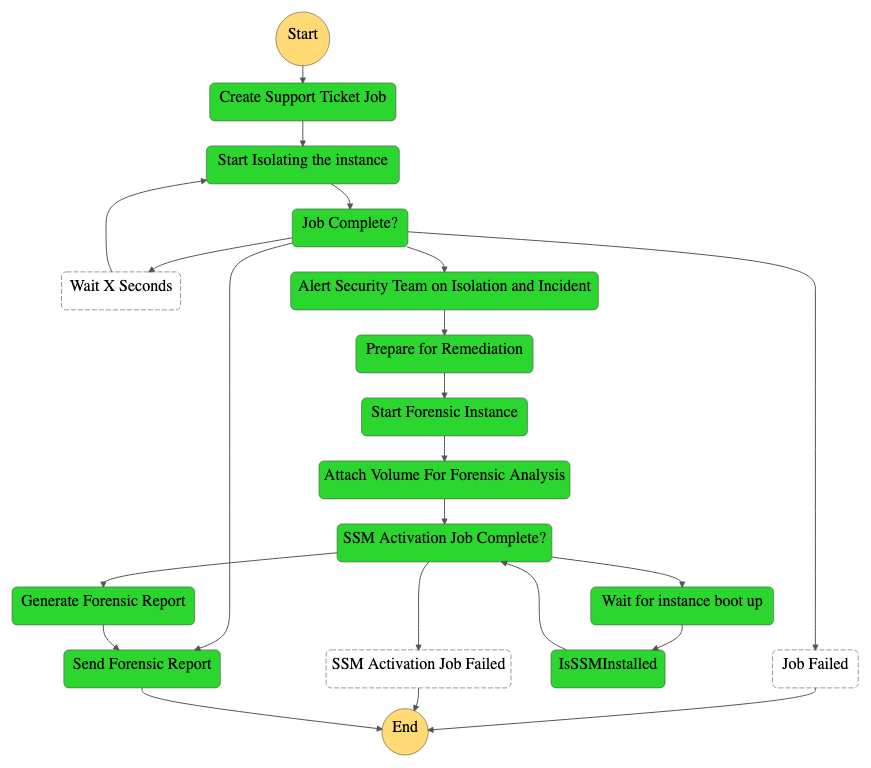
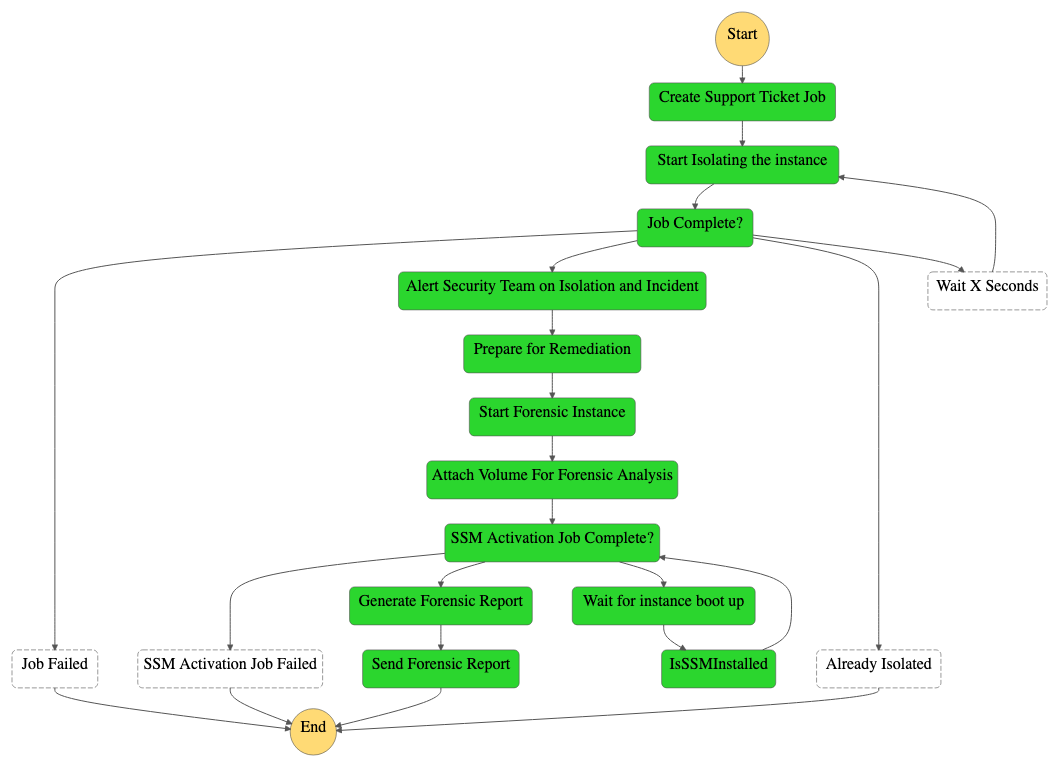
Added isolate lambda support for handling of duplicated alerts

Changed region(s): [[0.062, 0.0, 0.992, 0.6562], [0.0, 0.6562, 0.992, 1.0]]

diff --git a/EC2 Auto Clean Room Forensics/Lambda-Functions/isolateInstance.py b/EC2 Auto Clean Room Forensics/Lambda-Functions/isolateInstance.py
@@ -115,10 +115,8 @@ def lambda_handler(event, context):
     except IndexError:
         print("Instance is not part of any autoscaling group")
         response = get_instance_by_id(instanceID)
-        if response == 'DONE':
-            return 'DONE'
-        if response == 'SUCCEEDED':
-            return response
+        event['STATUS'] = response
+        return event
     if targetGroups:
         # Iterates ELB and gets the ELB where the instance is attached
         for key in targetGroups['TargetGroups']:
